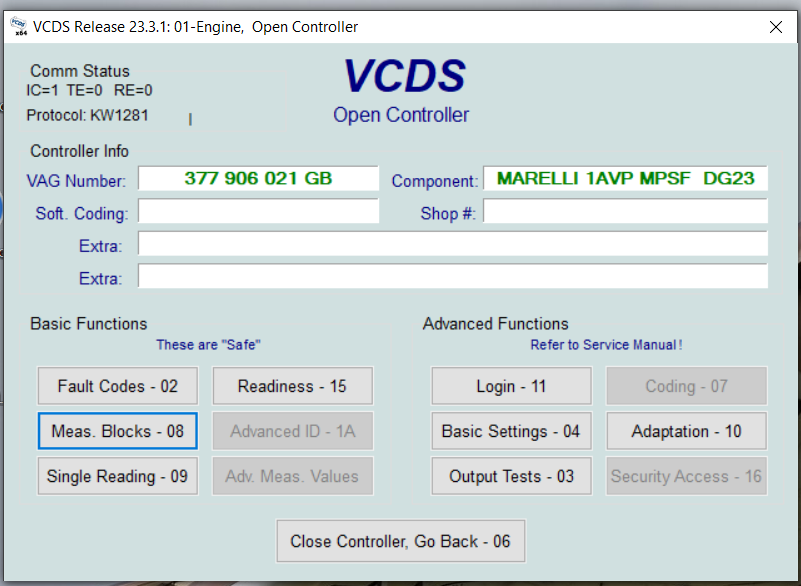
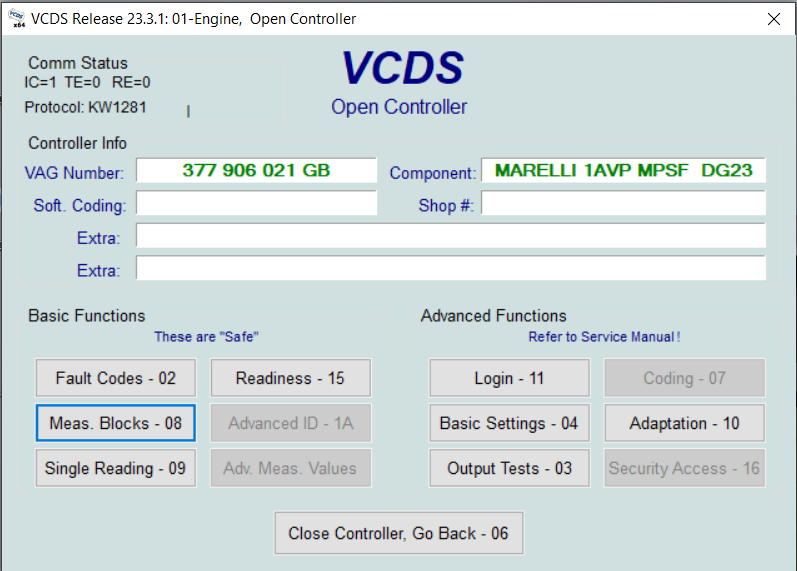
Update readme

diff --git a/README.md b/README.md
@@ -8,7 +8,8 @@
 
 A Python module for **reading and visualizing** time-series data from **CSV log files** generated by **VCDS (VAG-COM Diagnostic System) OBD2** software, specifically from the **Measuring Blocks** function.
 
-This repository includes a **Dash GUI** for interactive analysis and visualization of key parameters logged from the Vehicle Control Units (ECUs).
+This repository includes a **Dash GUI** for interactive analysis and visualization of key parameters logged from the Vehicle Control Units (ECUs).  
+
 
 ## 💡 Interface Demonstration
 
@@ -49,6 +50,16 @@ Follow these steps to set up and run the application locally:
     ```
 
 ---
+
+## ⚙ Hardware and Software Compatibility
+
+The following configuration was used for **data acquisition and diagnostics**:
+
+* **Software:** **VCDS 23.3.1 (x64)**.
+* **Hardware Interface:** **HEX-V2 Dual-K & CAN <-> USB VAG/ISO interface**.
+
+![Texto Alternativo](doc/engine-screen.PNG)
+![Texto Alternativo](doc/meas-block.PNG)
 
 ## ⚠ Important Warnings
 
